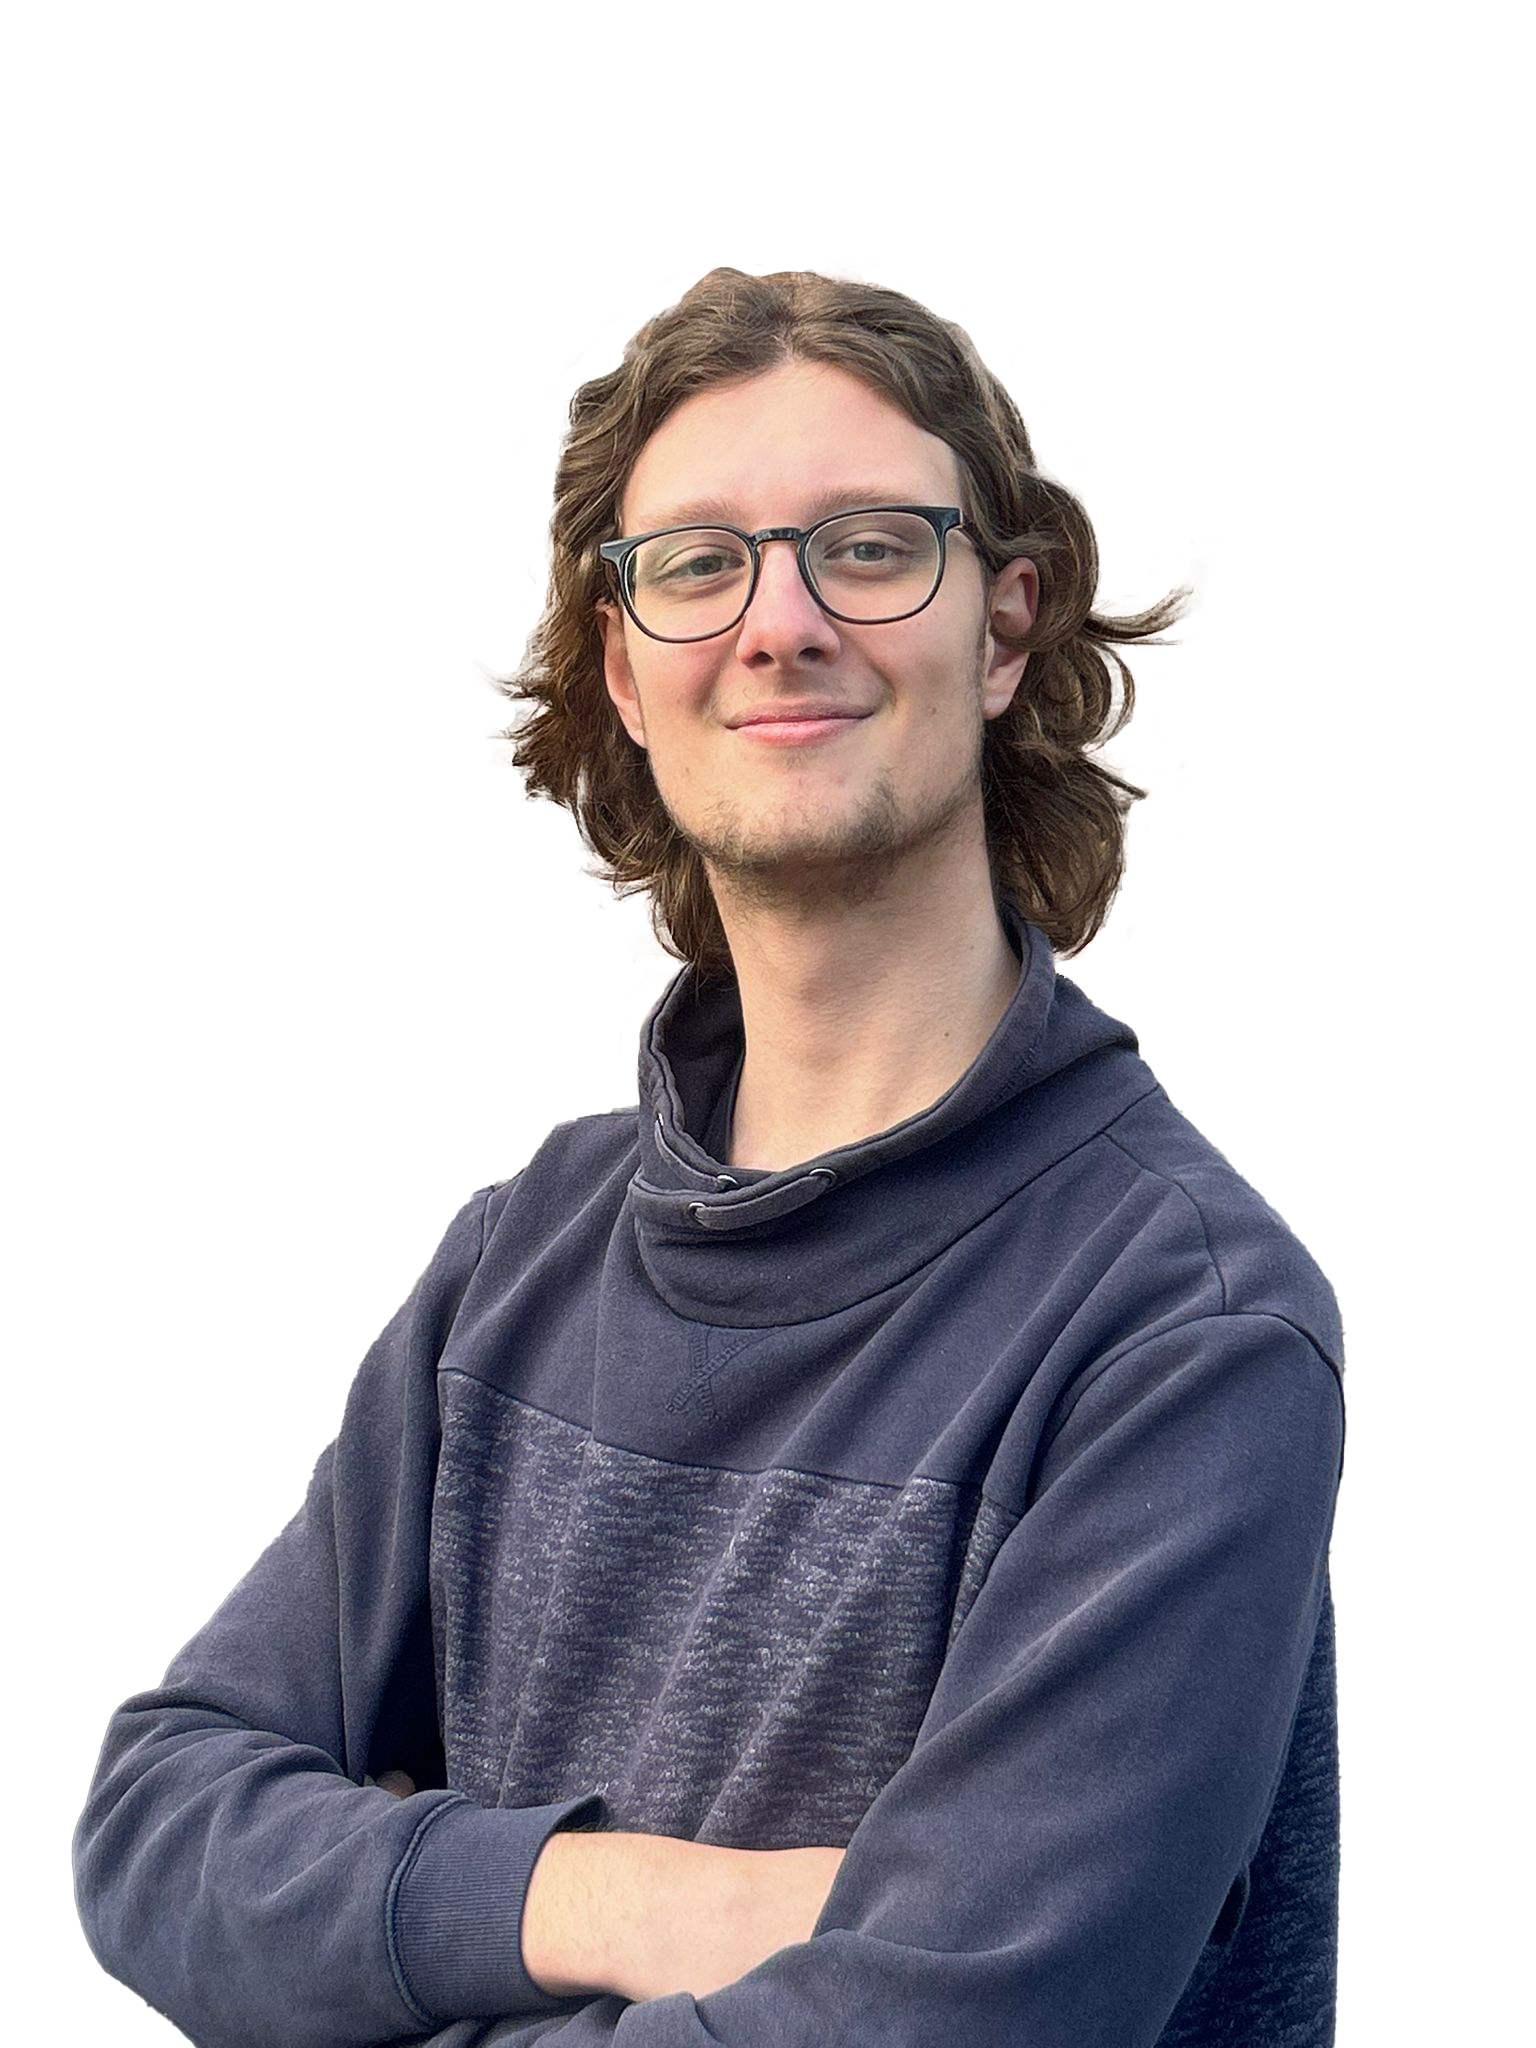
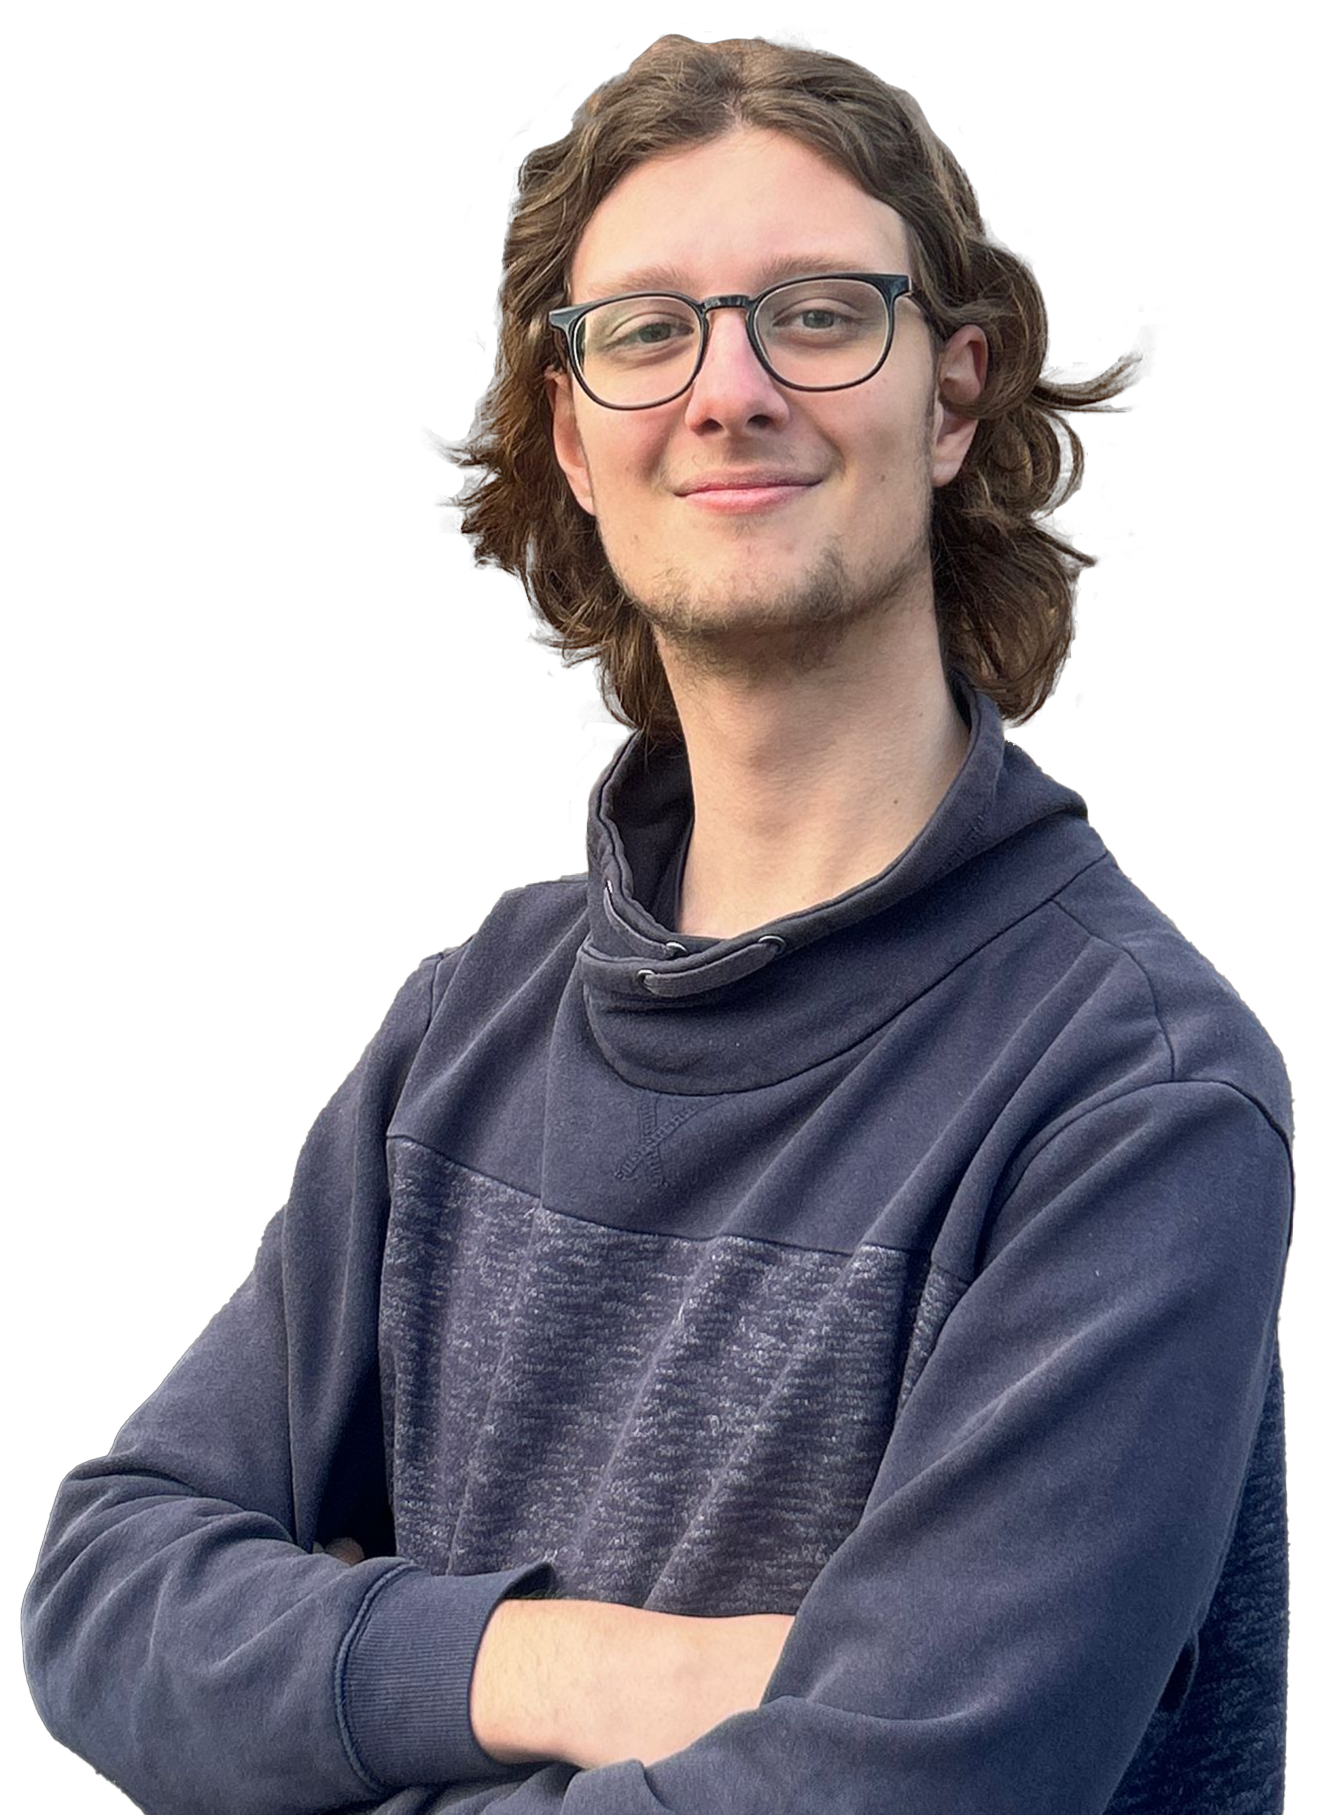
header looks good on all screen sizes

diff --git a/app/components/Hero.vue b/app/components/Hero.vue
@@ -1,68 +1,178 @@
 <script setup>
-const imgHeight = 500; // in pixels
+const { isMobile } = useViewport();
 </script>
 <template>
-	<div class="content-container text">
-		<p>Howest Multimedia and Creative Technologies alumni</p>
-		<p>Wide range of used languages and frameworks</p>
-		<p>Driven by curiosity and a hunger to learn</p>
+	<div class="content-container">
+		<div class="text">
+			<p>Howest Multimedia and Creative Technologies alumni</p>
+			<p>Wide range of used languages and frameworks</p>
+			<p>Driven by curiosity and a hunger to learn</p>
+		</div>
 	</div>
-	<div class="image-container" :style="{ height: imgHeight + 'px' }">
-		<img src="~/assets/img/picture.png" alt="Jentl Antheunis" class="profile-image" :style="{ height: imgHeight + 'px' }" />
+	<div class="title-container">
+		<div class="title content-container">
+			<div class="content-container" v-if="!isMobile">
+				<div class="title-text">
+					<h1>Jentl Antheunis</h1>
+					<h2>Full Stack & XR Developer</h2>
+				</div>
+			</div>
+			<img src="~/assets/img/picture.png" alt="Jentl Antheunis" class="profile-image" />
+		</div>
 		<div class="bar full-bleed"></div>
 	</div>
-	<div class="content-container">
+	<div class="content-container" v-if="isMobile">
 		<h1>Jentl Antheunis</h1>
 		<h2>Full Stack & XR Developer</h2>
 	</div>
 </template>
 <style scoped lang="scss">
-@use "@/assets/css/main.scss" as *;
+@use "@/assets/css/base.scss" as *;
 
 // text
 .text {
 	display: flex;
 	flex-direction: column;
+	margin-bottom: -20rem;
+	margin-top: 1rem;
+	@media (min-width: $bp-xs) {
+		margin-bottom: -15rem;
+	}
+	@media (min-width: $bp-s) {
+		margin-bottom: -13rem;
+		max-width: 100%;
+		gap: 3rem;
+	}
 }
 
 .text p {
+	margin-bottom: 1rem;
+	@media (min-width: $bp-xs) {
+		margin-bottom: 0;
+	}
+	@media (min-width: $bp-s) {
+		transform: translateY(5rem);
+	}
+	&:nth-child(1) {
+		align-self: flex-start;
+		text-align: left;
+		max-width: 100%;
+		margin-bottom: 2rem;
+		@media (min-width: $bp-xs) {
+			max-width: 15rem;
+		}
+		@media (min-width: $bp-s) {
+			max-width: 100%;
+			margin-bottom: 0;
+		}
+	}
+
 	&:nth-child(2) {
-		align-self: flex-end;
-		text-align: right;
-		max-width: 10rem;
+		align-self: flex-start;
+		text-align: left;
+		max-width: 7.5rem;
+		@media (min-width: $bp-xs) {
+			max-width: 10rem;
+			align-self: flex-end;
+			text-align: right;
+		}
+
+		@media (min-width: $bp-s) {
+			align-self: flex-start;
+			text-align: left;
+		}
+		@media (min-width: $bp-s) {
+			align-self: flex-end;
+			text-align: right;
+			max-width: 100%;
+			transform: translateX(-18rem) translateY(5rem);
+		}
+	}
+
+	&:nth-child(3) {
+		align-self: flex-start;
+		text-align: left;
+		max-width: 6rem;
+		margin-top: 0;
+		@media (min-width: $bp-xxs) {
+			max-width: 7rem;
+		}
+		@media (min-width: $bp-xs) {
+			margin-top: 5rem;
+		}
+		@media (min-width: $bp-s) {
+			margin-top: 0;
+		}
+		@media (min-width: $bp-s) {
+			max-width: 100%;
+		}
 	}
 }
 
 // image
-.image-container {
+.title-container {
 	position: relative;
+	--bar-gradient-center-x: calc(50% + 2rem);
+
+	height: 100vw * 1.2;
+	margin-top: 2rem;
 
 	display: flex;
-	flex-direction: column;
+	flex-direction: row;
 	align-items: center;
-	width: 100%;
+	width: 100vw;
+
+	@media (min-width: $bp-xs) {
+		--bar-gradient-center-x: 50%;
+		width: 100%;
+		height: 32rem;
+		flex-direction: column;
+	}
+}
+
+.title {
+	display: flex;
+	align-items: flex-end;
+	justify-content: center;
+	height: 100%;
+	z-index: 2;
+
+	& .title-text {
+		margin-bottom: 2.5rem;
+	}
 }
 
 .profile-image {
 	position: absolute;
 	bottom: 0;
-	z-index: 2;
-
+	height: 100vw;
 	object-fit: cover;
+	transform: translate(2rem);
+
+	@media (min-width: $bp-xs) {
+		transform: translate(0);
+	}
+
+	@media (min-width: $bp-xs) {
+		height: 100%;
+	}
+
+	@media (min-width: $bp-s) {
+		position: static;
+	}
 }
 
 .bar {
 	background-color: #{$color-primary};
+	background-image: radial-gradient(
+		160% 220% at var(--bar-gradient-center-x) 50%,
+		#{$color-primary-light} 0%,
+		#{$color-primary} 100%
+	);
 	height: 5rem;
 	width: 100%;
 
 	position: absolute;
 	bottom: 0;
-}
-
-@media (min-width: $bp-small) {
-	.profile-image {
-		left: 0;
-	}
 }
 </style>

diff --git a/app/composables/useViewport.ts b/app/composables/useViewport.ts
@@ -1,5 +1,7 @@
 import { computed, readonly } from "vue";
 
+const BP_XS = 336;
+const BP_MOBILE = 448;
 const BP_TABLET = 768;
 const BP_DESKTOP = 1024;
 const BP_LARGE = 1280;
@@ -8,17 +10,24 @@ export const useViewport = () => {
 	const width = useState<number>("viewport-width", () => 0);
 	const ready = useState<boolean>("viewport-ready", () => false);
 
+	const xxs = computed(() => width.value < BP_XS);
+	const xs = computed(() => width.value < BP_MOBILE);
+	const s = computed(() => width.value >= BP_MOBILE && width.value < BP_TABLET);
+	const m = computed(() => width.value >= BP_TABLET && width.value < BP_DESKTOP);
+	const l = computed(() => width.value >= BP_DESKTOP);
+	const xl = computed(() => width.value >= BP_LARGE);
+
 	const isMobile = computed(() => width.value < BP_TABLET);
-	const isTablet = computed(() => width.value >= BP_TABLET && width.value < BP_DESKTOP);
-	const isDesktop = computed(() => width.value >= BP_DESKTOP);
-	const isLargeDesktop = computed(() => width.value >= BP_LARGE);
 
 	return {
 		width: readonly(width),
 		ready: readonly(ready),
+		xxs,
+		xs,
+		s,
+		m,
+		l,
+		xl,
 		isMobile,
-		isTablet,
-		isDesktop,
-		isLargeDesktop,
 	};
 };

diff --git a/app/components/Logo.vue b/app/components/Logo.vue
@@ -25,7 +25,7 @@ const logoSize = computed(() => {
 		<g clip-path="url(#logo-clip)">
 			<path
 				d="M6.06654 34.4306C6.06654 34.7166 6.07867 34.9986 6.10496 35.2787H0.0242661C0.00808871 34.9966 0 34.7146 0 34.4306C0 32.6575 0.305349 30.9514 0.869537 29.3618H7.54475C6.60848 30.8351 6.06654 32.5727 6.06654 34.4306Z"
-				fill="var(--color-primary)"
+				class="accent"
 			/>
 			<path
 				d="M31.9241 0V34.4306C31.9241 34.7146 31.916 34.9966 31.8999 35.2787C31.8311 36.5548 31.6006 37.7914 31.2325 38.9689L31.1759 39.1424C29.1254 45.4302 23.0811 50 15.9631 50C7.45172 50 0.475207 43.4697 0.0242615 35.2787H6.10495C6.54579 40.2035 10.7984 44.0831 15.9631 44.0831C20.3755 44.0831 24.1226 41.2508 25.3945 37.3516L25.4147 37.2865C25.619 36.6435 25.7585 35.971 25.8192 35.2787C25.8455 34.9986 25.8576 34.7166 25.8576 34.4306V0H31.9241Z"
@@ -128,7 +128,13 @@ const logoSize = computed(() => {
 	</svg>
 </template>
 <style scoped lang="scss">
-// .logo {
-// 	display: block;
-// }
+@use "@/assets/css/base.scss" as *;
+
+.logo {
+	display: block;
+}
+
+.accent {
+	fill: #{$color-primary};
+}
 </style>

diff --git a/app/assets/css/base.scss b/app/assets/css/base.scss
@@ -7,9 +7,17 @@ $color-primary: $c-blue-dark;
 $color-primary-light: $c-blue-light;
 
 // Breakpoints (@media queries)
-$bp-small: 48rem;   /* tablet */
-$bp-medium: 64rem;  /* desktop */
-$bp-large: 80rem;   /* large desktop */
+
+$bp-xxs: 21rem;
+/* small mobile */
+$bp-xs: 28rem;
+/* mobile */
+$bp-s: 48rem;
+/* tablet */
+$bp-m: 64rem;
+/* desktop */
+$bp-l: 80rem;
+ /* large desktop */
 
 // Typography
 $font-family: 'Segoe UI', Tahoma, Geneva, Verdana, sans-serif;
@@ -27,7 +35,7 @@ $font-size-h4: #{$fs-l};
 $font-size-body: #{$fs-s};
 
 // Layout
-$content-max: 72rem;
+$content-max: 64rem;
 $content-gutter: 1rem;
 
 

diff --git a/app/components/bp-shower.vue b/app/components/bp-shower.vue
@@ -1,0 +1,24 @@
+<script setup>
+const { xxs, xs, s, m, l, xl } = useViewport();
+
+const currentViewPort = computed(() => {
+	if (xxs.value) return "XXS";
+	if (xs.value) return "XS";
+	if (s.value) return "S";
+	if (m.value) return "M";
+	if (l.value) return "L";
+	if (xl.value) return "XL";
+	return "unknown";
+});
+</script>
+<template>
+	<p>{{ currentViewPort }}</p>
+</template>
+<style scoped>
+p {
+	color: chocolate;
+	position: absolute;
+	top: 0;
+	left: 0;
+}
+</style>

diff --git a/nuxt.config.ts b/nuxt.config.ts
@@ -4,7 +4,7 @@ export default defineNuxtConfig({
 	devtools: { enabled: true },
 	app: {
 		head: {
-			title: "Portfolio",
+			title: "Jentl Antheunis - Portfolio",
 			meta: [
 				{ name: "description", content: "My personal portfolio website showcasing my projects and skills." },
 				{ name: "viewport", content: "width=device-width, initial-scale=1" },

diff --git a/app/components/Header.vue b/app/components/Header.vue
@@ -15,7 +15,7 @@ const { isMobile } = useViewport();
 	</div>
 </template>
 <style scoped lang="scss">
-@use "@/assets/css/main.scss" as *;
+@use "@/assets/css/base.scss" as *;
 
 .content-container {
 	display: flex;

diff --git a/app/app.vue b/app/app.vue
@@ -1,4 +1,5 @@
 <template>
+	<bp-shower />
 	<header>
 		<Header />
 	</header>
